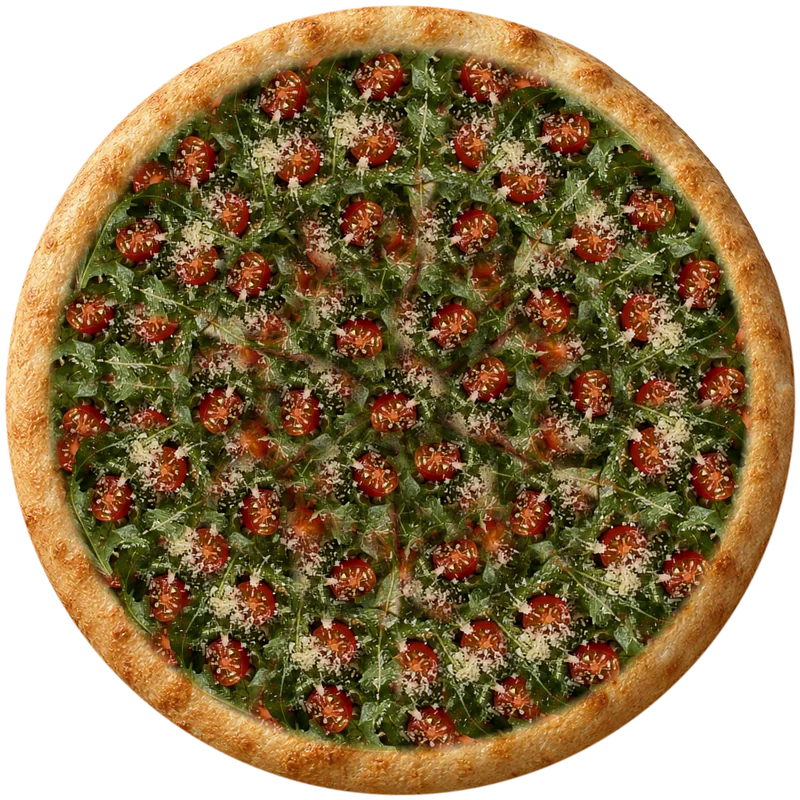
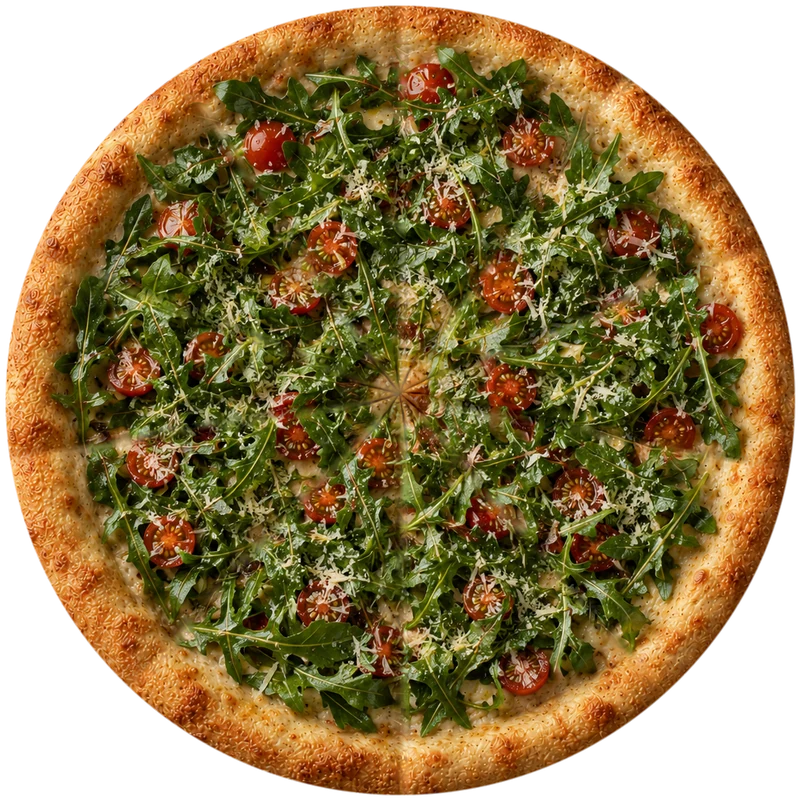
Modelos reais de Alho e Óleo e Rúcula; cortes de faca finos no lugar de fatias separadas
Claude-Session: https://claude.ai/code/session_011LuRHEVc34R5xPAEgWmKaq

diff --git a/index.html b/index.html
@@ -283,7 +283,11 @@ footer{background:var(--carvao);color:#fff;padding:26px 0 24px}
 .tabua.fora~.pz-sombra{opacity:0}
 .pz-l svg{width:100%;height:100%;display:block;overflow:visible}
 .pz [data-i]{transition:transform .8s cubic-bezier(.3,.7,.3,1)}
-.cortes line{stroke:rgba(80,40,12,.6);stroke-width:1.4;stroke-linecap:round;stroke-dasharray:1;stroke-dashoffset:1;animation:risca .35s ease forwards}
+.faca line{stroke-linecap:round}
+.faca .f-som{stroke:#2a1406;stroke-opacity:.28;stroke-width:1.6}
+.faca .f-sulco{stroke:#3a1c08;stroke-opacity:.7;stroke-width:.55}
+.faca .f-luz{stroke:#fff3d6;stroke-opacity:.42;stroke-width:.45}
+.faca.anima line{stroke-dasharray:1;stroke-dashoffset:1;animation:risca .35s ease forwards}
 @keyframes risca{to{stroke-dashoffset:0}}
 .caixa{position:absolute;left:25px;top:25px;width:350px;height:350px;transform-style:preserve-3d;visibility:hidden;transform:translateZ(-80px);transition:transform .55s cubic-bezier(.3,.7,.3,1)}
 .caixa.on{visibility:visible;transform:none}
@@ -720,36 +724,33 @@ const f2=n=>n.toFixed(2);
 function setor(r,a0,a1){const g=a1-a0>Math.PI?1:0;return`M0 0L${f2(r*Math.cos(a0))} ${f2(r*Math.sin(a0))}A${r} ${r} 0 ${g} 1 ${f2(r*Math.cos(a1))} ${f2(r*Math.sin(a1))}Z`}
 function arco(r,a0,a1){return`M${f2(r*Math.cos(a0))} ${f2(r*Math.sin(a0))}A${r} ${r} 0 0 1 ${f2(r*Math.cos(a1))} ${f2(r*Math.sin(a1))}`}
 function grupos(n,k){const g=[];let i=0;const b=Math.floor(n/k),x=n%k;for(let j=0;j<k;j++){const t=b+(j<x?1:0);g.push({ini:i,fim:i+t});i+=t}return g}
-function offsets(cfg){
-  const st=TAU/cfg.n,k=cfg.sabores.length,gs=k>1?grupos(cfg.n,k):null,res=[];
-  for(let i=0;i<cfg.n;i++){let x=0,y=0;
-    if(cfg.cortada){const m=-Math.PI/2+(i+.5)*st;x+=1.2*Math.cos(m);y+=1.2*Math.sin(m)}
-    if(gs){const g=gs.find(g=>i>=g.ini&&i<g.fim),m=-Math.PI/2+((g.ini+g.fim)/2)*st;x+=1.3*Math.cos(m);y+=1.3*Math.sin(m)}
-    res.push([x,y])}
-  return res;
-}
+function offsets(cfg){return Array.from({length:cfg.n},()=>[0,0])} // fatias não se afastam: o corte é desenhado
 const EXTRAS_IMG=['queijo','bacon','azeitona']; // ketchup e maionese vão em sachê
 let UID=0;
-function svgPizza(cfg,{off=offsets(cfg),cortes=false}={}){
+/* corte de faca: sulco escuro fino + brilho do lado oposto, como pizza cortada de verdade */
+function faca(n,animar){
+  const st=TAU/n;let h=`<g class="faca${animar?' anima':''}">`;
+  for(let i=0;i<n;i++){
+    const a=-Math.PI/2+i*st,c=Math.cos(a),s=Math.sin(a),px=-s*.55,py=c*.55,r0=2.2,r1=100.6;
+    const L=(dx,dy,cls)=>`<line class="${cls}" x1="${f2(r0*c+dx)}" y1="${f2(r0*s+dy)}" x2="${f2(r1*c+dx)}" y2="${f2(r1*s+dy)}" pathLength="1" style="animation-delay:${i*70}ms"/>`;
+    h+=L(-px,-py,'f-som')+L(0,0,'f-sulco')+L(px,py,'f-luz');
+  }
+  return h+'</g>';
+}
+function svgPizza(cfg,{cortes=false}={}){
   const n=cfg.n,st=TAU/n,id='pz'+Date.now().toString(36)+(++UID);
   const k=cfg.sabores.length,gs=k?grupos(n,k):[];
-  const ex=EXTRAS_IMG.filter(e=>(cfg.extras||[]).includes(e)),borda=cfg.borda?`<image href="img/borda-${cfg.borda}.webp" x="-101" y="-101" width="202" height="202"/>`:'';
-  const massa=`<image href="img/${cfg.cortada?'massa-'+n:'massa'}.webp" x="-101" y="-101" width="202" height="202"/>`;
-  const inteira=off.every(o=>!o[0]&&!o[1]);
-  let h=`<svg xmlns="http://www.w3.org/2000/svg" viewBox="-112 -112 224 224">`;
-  if(inteira&&!cfg.cortada)h+=massa;
-  for(let i=0;i<n;i++){
-    const a0=-Math.PI/2+i*st,a1=a0+st,o=off[i];
-    let c=(inteira&&!cfg.cortada)?'':`<clipPath id="${id}c${i}"><path d="${setor(102,a0,a1)}"/></clipPath><g clip-path="url(#${id}c${i})">${massa}</g>`;
-    const gi=gs.findIndex(g=>i>=g.ini&&i<g.fim),s=gi>=0?SAB[cfg.sabores[gi]]:null;
-    if(s){
-      const ex2=s.tier!=='doce'?ex.map(e=>`<image href="img/sabores/extra-${e}.webp" x="-101" y="-101" width="202" height="202"/>`).join(''):'';
-      c+=`<clipPath id="${id}t${i}"><path d="${setor(102,a0,a1)}"/></clipPath><g clip-path="url(#${id}t${i})"><image href="img/sabores/${s.id}.webp" x="-101" y="-101" width="202" height="202"/>${ex2}</g>`;
-    }
-    if(borda)c+=`<clipPath id="${id}b${i}"><path d="${setor(102,a0,a1)}"/></clipPath><g clip-path="url(#${id}b${i})">${borda}</g>`;
-    h+=`<g data-i="${i}" style="transform:translate(${f2(o[0])}px,${f2(o[1])}px)">${c}</g>`;
-  }
-  if(cortes){h+='<g class="cortes">';for(let i=0;i<n;i++){const a=-Math.PI/2+i*st;h+=`<line x1="0" y1="0" x2="${f2(101*Math.cos(a))}" y2="${f2(101*Math.sin(a))}" pathLength="1" style="animation-delay:${i*70}ms"/>`}h+='</g>'}
+  const ex=EXTRAS_IMG.filter(e=>(cfg.extras||[]).includes(e));
+  const IMG=src=>`<image href="${src}" x="-101" y="-101" width="202" height="202"/>`;
+  let h=`<svg xmlns="http://www.w3.org/2000/svg" viewBox="-112 -112 224 224">${IMG('img/massa.webp')}`;
+  /* cada sabor recorta a parte dele da pizza inteira do sabor */
+  gs.forEach((g,gi)=>{
+    const s=SAB[cfg.sabores[gi]],a0=-Math.PI/2+g.ini*st,a1=-Math.PI/2+g.fim*st;
+    const ex2=s.tier!=='doce'?ex.map(e=>IMG(`img/sabores/extra-${e}.webp`)).join(''):'';
+    h+=`<clipPath id="${id}s${gi}"><path d="${k===1?'M-102-102H102V102H-102Z':setor(102,a0,a1)}"/></clipPath><g clip-path="url(#${id}s${gi})">${IMG(`img/sabores/${s.id}.webp`)}${ex2}</g>`;
+  });
+  if(cfg.borda)h+=IMG(`img/borda-${cfg.borda}.webp`);
+  if(cfg.cortada||cortes)h+=faca(n,cortes);
   return h+'</svg>';
 }
 
@@ -762,7 +763,7 @@ $('tabua').innerHTML='<img src="img/tabua.webp" alt="">';
 let cfg,passo=1,ocupado=false,ultimo=null,riscar=false;
 function desenhar(animar){
   const nova=offsets(cfg),ini=animar&&ultimo&&ultimo.n===cfg.n?ultimo.off:nova;
-  const h=`<div class="pz-l">${svgPizza(cfg,{off:ini,cortes:riscar})}</div>`;
+  const h=`<div class="pz-l">${svgPizza(cfg,{cortes:riscar})}</div>`;
   $('pz').innerHTML=h;ultimo={n:cfg.n,off:nova};
   if(ini!==nova){void $('pz').offsetWidth;requestAnimationFrame(()=>$('pz').querySelectorAll('[data-i]').forEach(g=>{const o=nova[g.dataset.i];g.style.transform=`translate(${f2(o[0])}px,${f2(o[1])}px)`}))}
   $('pz-tag').innerHTML=cfg.cortada?`<b>${cfg.n}</b> pedaços${cfg.sabores.length?` · <b>${cfg.sabores.length}</b> sabor${cfg.sabores.length>1?'es':''}`:''}`:'Massa artesanal';
